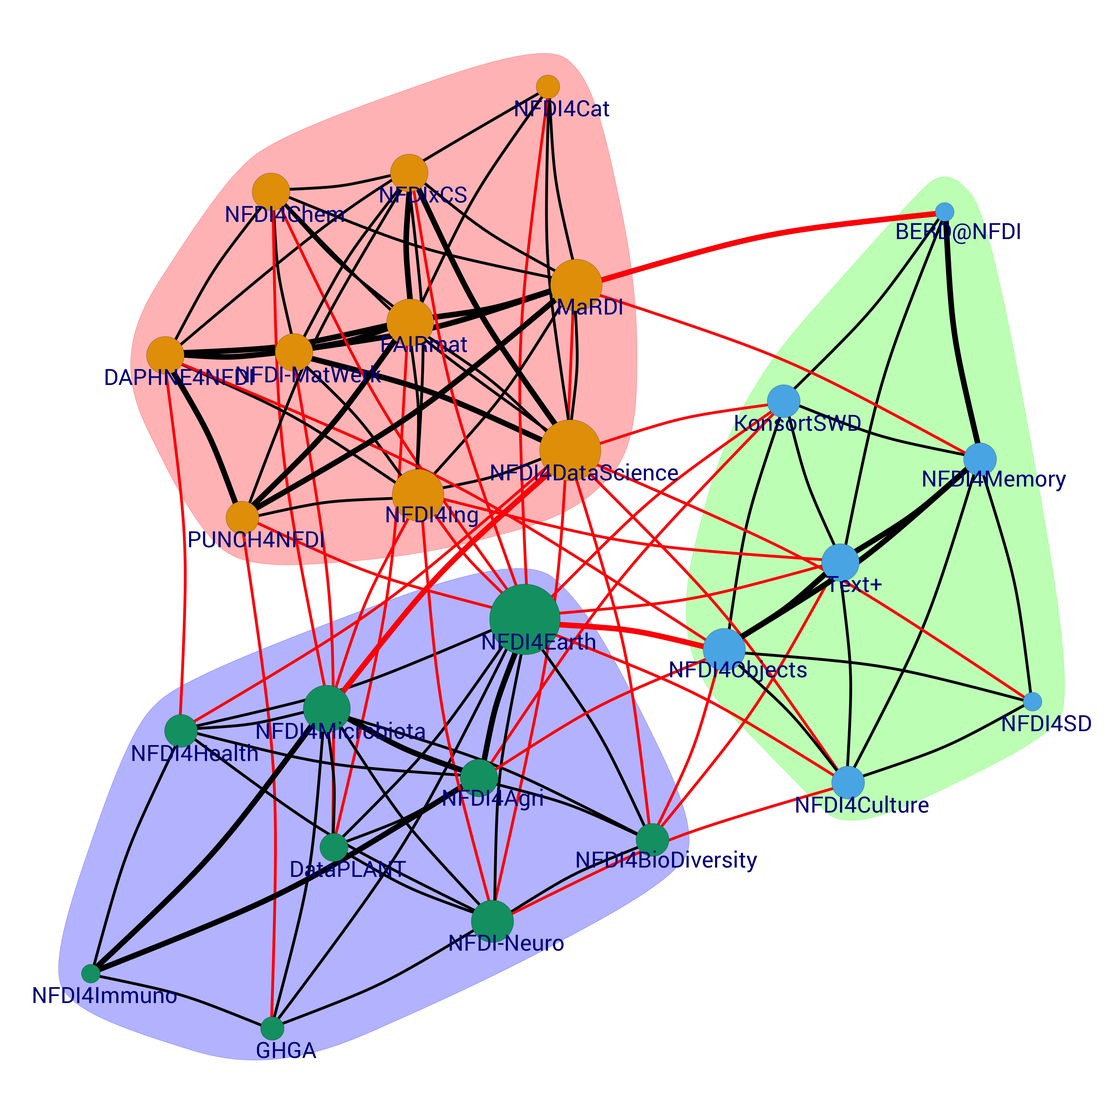
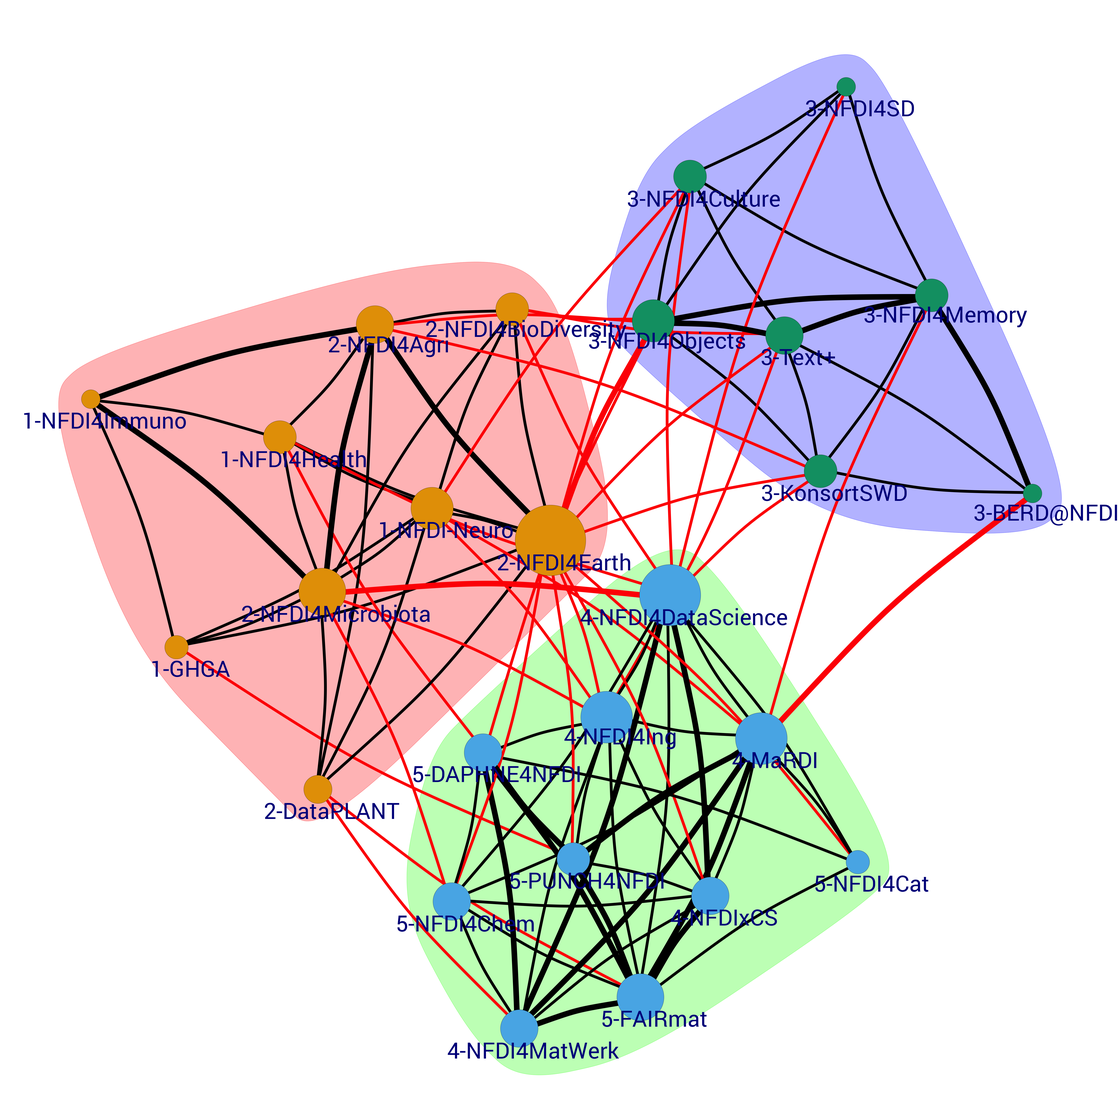
added NFDI-categorization to consortia

diff --git a/2020/2020_nfdi_network_5.html b/2020/2020_nfdi_network_5.html
@@ -1211,11 +1211,11 @@ return function(){for(var n=0,e=0;e<t;++e)n+=Math.random();return n}},um=functio
 </head>
 <body style="background-color: white;">
 <div id="htmlwidget_container">
-<div id="htmlwidget-466d62322b30683bf1b7" class="forceNetwork html-widget" style="width:960px;height:500px;">
+<div id="htmlwidget-ae2abda4cf70fff570f1" class="forceNetwork html-widget" style="width:960px;height:500px;">
 
 </div>
 </div>
-<script type="application/json" data-for="htmlwidget-466d62322b30683bf1b7">{"x":{"links":{"source":[1,1,1,1,1,1,1,1,3,3,3,3,3,3,3,3,3,3,6,6,6,6,6,6,6,9,9,9,9,9,9,9,14,14,14,14,14,14,14,14,14,14,14,15,15,15,15,15,15,15,15,15,15,15,17,17,17,17,19,19,19,19,19,20,20,20,20,20,20,20,20,20,21,21,21,21,21,21,21,22,22,22,22,7,7,7,7,7,7,7,7,8,8,8,8,8,8,8,8,23,23,23,23,23,23,24,24,24,24,24,24,24,25,25,25,25,25,25,25,0,0,0,0,6,19],"target":[3,12,18,7,11,24,16,21,1,6,12,11,18,7,24,2,14,23,7,24,3,18,12,8,11,20,16,10,2,15,5,17,23,6,13,5,16,10,11,12,18,20,7,2,4,5,9,10,11,12,13,16,18,21,20,9,4,16,13,21,25,6,5,2,4,9,10,12,14,16,17,18,25,19,13,5,10,15,9,19,21,13,14,18,23,14,3,12,1,2,6,16,18,2,13,4,20,10,15,18,6,14,3,12,15,3,1,15,6,23,4,18,13,19,21,5,18,15,10,5,19,6,25,0,0],"value":[1,1,1,1,1,1,1,1,1,1,1,1,1,1,1,1,1,1,1,1,1,1,1,1,1,1,1,1,1,1,1,1,1,1,1,1,1,1,1,1,1,1,1,1,1,1,1,1,1,1,1,1,1,1,1,1,1,1,1,1,1,1,1,1,1,1,1,1,1,1,1,1,1,1,1,1,1,1,1,1,1,1,1,1,1,1,1,1,1,1,1,1,1,1,1,1,1,1,1,1,1,1,1,1,1,1,1,1,1,1,1,1,1,1,1,1,1,1,1,1,1,1,1,1,1],"colour":["#808080","#808080","#808080","#808080","#808080","#808080","#808080","#808080","#808080","#808080","#808080","#808080","#808080","#808080","#808080","#808080","#808080","#808080","#808080","#808080","#808080","#808080","#808080","#808080","#808080","#808080","#808080","#808080","#808080","#808080","#808080","#808080","#808080","#808080","#808080","#808080","#808080","#808080","#808080","#808080","#808080","#808080","#808080","#808080","#808080","#808080","#808080","#808080","#808080","#808080","#808080","#808080","#808080","#808080","#808080","#808080","#808080","#808080","#808080","#808080","#808080","#808080","#808080","#808080","#808080","#808080","#808080","#808080","#808080","#808080","#808080","#808080","#808080","#808080","#808080","#808080","#808080","#808080","#808080","#808080","#808080","#808080","#808080","#808080","#808080","#808080","#808080","#808080","#808080","#808080","#808080","#808080","#808080","#808080","#808080","#808080","#808080","#808080","#808080","#808080","#808080","#808080","#808080","#808080","#808080","#808080","#808080","#808080","#808080","#808080","#808080","#808080","#808080","#808080","#808080","#808080","#808080","#808080","#808080","#808080","#808080","#808080","#808080","#808080","#808080"]},"nodes":{"name":["BERD@NFDI","DAPHNE4NFDI","DataPLANT","FAIRmat","GHGA","KonsortSWD","MaRDI","NFDI-MatWerk","NFDI-Neuro","NFDI4Agri","NFDI4BioDiversity","NFDI4Cat","NFDI4Chem","NFDI4Culture","NFDI4DataScience","NFDI4Earth","NFDI4Health","NFDI4Immuno","NFDI4Ing","NFDI4Memory","NFDI4Microbiota","NFDI4Objects","NFDI4SD","NFDIxCS","PUNCH4NFDI","Text+"],"group":[1,1,1,1,1,1,1,1,1,1,1,1,1,1,1,1,1,1,1,1,1,1,1,1,1,1],"nodesize":[8,8,8,8,8,8,8,8,8,8,8,8,8,8,8,8,8,8,8,8,8,8,8,8,8,8]},"options":{"NodeID":"name","Group":"group","colourScale":"d3.scaleOrdinal(['#435FAC'])","fontSize":7,"fontFamily":"Roboto","clickTextSize":17.5,"linkDistance":50,"linkWidth":"'1.5px'.toString()","charge":-300,"opacity":1,"zoom":true,"legend":false,"arrows":false,"nodesize":true,"radiusCalculation":"d.nodesize","bounded":false,"opacityNoHover":1,"clickAction":null}},"evals":[],"jsHooks":[]}</script>
-<script type="application/htmlwidget-sizing" data-for="htmlwidget-466d62322b30683bf1b7">{"viewer":{"width":450,"height":350,"padding":10,"fill":true},"browser":{"width":960,"height":500,"padding":10,"fill":true}}</script>
+<script type="application/json" data-for="htmlwidget-ae2abda4cf70fff570f1">{"x":{"links":{"source":[21,21,21,21,21,21,21,21,22,22,22,22,22,22,22,22,22,22,16,16,16,16,16,16,16,5,5,5,5,5,5,5,17,17,17,17,17,17,17,17,17,17,17,7,7,7,7,7,7,7,7,7,7,7,3,3,3,3,12,12,12,12,12,8,8,8,8,8,8,8,8,8,13,13,13,13,13,13,13,14,14,14,14,19,19,19,19,19,19,19,19,1,1,1,1,1,1,1,1,20,20,20,20,20,20,25,25,25,25,25,25,25,15,15,15,15,15,15,15,9,9,9,9,16,12],"target":[22,24,18,19,23,25,2,13,21,16,24,23,18,19,25,4,17,20,19,25,22,18,24,1,23,8,2,6,4,7,10,3,20,16,11,10,2,6,23,24,18,8,19,4,0,10,5,6,23,24,11,2,18,13,8,5,0,2,11,13,15,16,10,4,0,5,6,24,17,2,3,18,15,12,11,10,6,7,5,12,13,11,17,18,20,17,22,24,21,4,16,2,18,4,11,0,8,6,7,18,16,17,22,24,7,22,21,7,16,20,0,18,11,12,13,10,18,7,6,10,12,16,15,9,9],"value":[1,1,1,1,1,1,1,1,1,1,1,1,1,1,1,1,1,1,1,1,1,1,1,1,1,1,1,1,1,1,1,1,1,1,1,1,1,1,1,1,1,1,1,1,1,1,1,1,1,1,1,1,1,1,1,1,1,1,1,1,1,1,1,1,1,1,1,1,1,1,1,1,1,1,1,1,1,1,1,1,1,1,1,1,1,1,1,1,1,1,1,1,1,1,1,1,1,1,1,1,1,1,1,1,1,1,1,1,1,1,1,1,1,1,1,1,1,1,1,1,1,1,1,1,1],"colour":["#808080","#808080","#808080","#808080","#808080","#808080","#808080","#808080","#808080","#808080","#808080","#808080","#808080","#808080","#808080","#808080","#808080","#808080","#808080","#808080","#808080","#808080","#808080","#808080","#808080","#808080","#808080","#808080","#808080","#808080","#808080","#808080","#808080","#808080","#808080","#808080","#808080","#808080","#808080","#808080","#808080","#808080","#808080","#808080","#808080","#808080","#808080","#808080","#808080","#808080","#808080","#808080","#808080","#808080","#808080","#808080","#808080","#808080","#808080","#808080","#808080","#808080","#808080","#808080","#808080","#808080","#808080","#808080","#808080","#808080","#808080","#808080","#808080","#808080","#808080","#808080","#808080","#808080","#808080","#808080","#808080","#808080","#808080","#808080","#808080","#808080","#808080","#808080","#808080","#808080","#808080","#808080","#808080","#808080","#808080","#808080","#808080","#808080","#808080","#808080","#808080","#808080","#808080","#808080","#808080","#808080","#808080","#808080","#808080","#808080","#808080","#808080","#808080","#808080","#808080","#808080","#808080","#808080","#808080","#808080","#808080","#808080","#808080","#808080","#808080"]},"nodes":{"name":["1-GHGA","1-NFDI-Neuro","1-NFDI4Health","1-NFDI4Immuno","2-DataPLANT","2-NFDI4Agri","2-NFDI4BioDiversity","2-NFDI4Earth","2-NFDI4Microbiota","3-BERD@NFDI","3-KonsortSWD","3-NFDI4Culture","3-NFDI4Memory","3-NFDI4Objects","3-NFDI4SD","3-Text+","4-MaRDI","4-NFDI4DataScience","4-NFDI4Ing","4-NFDI4MatWerk","4-NFDIxCS","5-DAPHNE4NFDI","5-FAIRmat","5-NFDI4Cat","5-NFDI4Chem","5-PUNCH4NFDI"],"group":[1,1,1,1,1,1,1,1,1,1,1,1,1,1,1,1,1,1,1,1,1,1,1,1,1,1],"nodesize":[8,8,8,8,8,8,8,8,8,8,8,8,8,8,8,8,8,8,8,8,8,8,8,8,8,8]},"options":{"NodeID":"name","Group":"group","colourScale":"d3.scaleOrdinal(['#435FAC'])","fontSize":7,"fontFamily":"Roboto","clickTextSize":17.5,"linkDistance":100,"linkWidth":"'1.5px'.toString()","charge":-300,"opacity":1,"zoom":true,"legend":false,"arrows":false,"nodesize":true,"radiusCalculation":"d.nodesize","bounded":false,"opacityNoHover":1,"clickAction":null}},"evals":[],"jsHooks":[]}</script>
+<script type="application/htmlwidget-sizing" data-for="htmlwidget-ae2abda4cf70fff570f1">{"viewer":{"width":450,"height":350,"padding":10,"fill":true},"browser":{"width":960,"height":500,"padding":10,"fill":true}}</script>
 </body>
 </html>

diff --git a/2020/2020_nfdi_network_4.html b/2020/2020_nfdi_network_4.html
@@ -1624,11 +1624,11 @@ pointer-events: none;
 </head>
 <body style="background-color: white;">
 <div id="htmlwidget_container">
-<div id="htmlwidget-1b73e8243cad70c255e2" class="chorddiag html-widget" style="width:960px;height:500px;">
+<div id="htmlwidget-1872be1f50ed0d6e05f7" class="chorddiag html-widget" style="width:960px;height:500px;">
 
 </div>
 </div>
-<script type="application/json" data-for="htmlwidget-1b73e8243cad70c255e2">{"x":{"matrix":[[0,2,0,0,0,0,0,0,0,1,0,2,0,0,2,0,0,1,1,1,1,0,0,0,0,0],[2,0,2,0,1,0,0,0,0,0,0,2,0,2,2,0,0,1,1,1,0,1,0,0,0,0],[0,2,0,0,1,0,0,1,0,0,0,2,1,1,2,0,2,1,1,1,0,0,0,0,0,0],[0,0,0,0,0,2,2,0,2,1,0,0,0,0,0,0,0,0,0,0,1,1,1,1,0,0],[0,1,1,0,0,0,0,0,2,0,1,2,0,2,0,0,0,1,1,1,1,0,1,1,1,0],[0,0,0,2,0,0,0,0,0,2,0,0,1,1,1,1,0,1,1,1,1,1,1,1,1,1],[0,0,0,2,0,0,0,0,2,0,0,0,0,0,0,0,0,0,0,0,1,0,0,0,0,1],[0,0,1,0,0,0,0,0,0,2,1,0,0,0,0,2,2,0,0,0,0,0,0,1,1,0],[0,0,0,2,2,0,2,0,0,0,0,0,1,0,0,0,0,1,1,0,1,1,1,0,0,1],[1,0,0,1,0,2,0,2,0,0,1,0,0,0,0,2,0,0,0,0,0,0,1,1,1,0],[0,0,0,0,1,0,0,1,0,1,0,0,0,0,0,0,0,0,0,0,0,0,0,0,1,0],[2,2,2,0,2,0,0,0,0,0,0,0,0,1,0,0,0,1,1,0,0,1,0,0,0,0],[0,0,1,0,0,1,0,0,1,0,0,0,0,0,0,0,0,0,1,0,1,1,1,0,1,1],[0,2,1,0,2,1,0,0,0,0,0,1,0,0,1,0,0,1,1,0,0,0,0,0,0,0],[2,2,2,0,0,1,0,0,0,0,0,0,0,1,0,0,0,0,1,0,0,0,0,0,0,1],[0,0,0,0,0,1,0,2,0,2,0,0,0,0,0,0,1,0,1,0,0,0,1,1,1,0],[0,0,2,0,0,0,0,2,0,0,0,0,0,0,0,1,0,0,0,0,0,0,0,1,0,0],[1,1,1,0,1,1,0,0,1,0,0,1,0,1,0,0,0,0,0,0,0,0,0,0,0,0],[1,1,1,0,1,1,0,0,1,0,0,1,1,1,1,1,0,0,0,0,0,0,0,0,0,0],[1,1,1,0,1,1,0,0,0,0,0,0,0,0,0,0,0,0,0,0,0,0,0,0,0,0],[1,0,0,1,1,1,1,0,1,0,0,0,1,0,0,0,0,0,0,0,0,0,0,0,0,0],[0,1,0,1,0,1,0,0,1,0,0,1,1,0,0,0,0,0,0,0,0,0,0,0,0,0],[0,0,0,1,1,1,0,0,1,1,0,0,1,0,0,1,0,0,0,0,0,0,0,0,0,0],[0,0,0,1,1,1,0,1,0,1,0,0,0,0,0,1,1,0,0,0,0,0,0,0,0,0],[0,0,0,0,1,1,0,1,0,1,1,0,1,0,0,1,0,0,0,0,0,0,0,0,0,0],[0,0,0,0,0,1,1,0,1,0,0,0,1,0,1,0,0,0,0,0,0,0,0,0,0,0]],"options":{"type":"directional","width":null,"height":null,"margin":120,"showGroupnames":true,"groupNames":["DAPHNE4NFDI","FAIRmat","MaRDI","NFDI4Agri","NFDI4DataScience","NFDI4Earth","NFDI4Immuno","NFDI4Memory","NFDI4Microbiota","NFDI4Objects","NFDI4SD","NFDI-MatWerk","NFDI-Neuro","NFDIxCS","PUNCH4NFDI","Text+","BERD@NFDI","NFDI4Chem","NFDI4Ing","NFDI4Cat","NFDI4Health","DataPLANT","NFDI4BioDiversity","KonsortSWD","NFDI4Culture","GHGA"],"groupColors":["#435FAC","#AEC3FD"],"groupThickness":0.1,"groupPadding":0.0174532925199433,"groupnamePadding":[20,20,20,20,20,20,20,20,20,20,20,20,20,20,20,20,20,20,20,20,20,20,20,20,20,20],"groupnameFontsize":18,"groupedgeColor":null,"chordedgeColor":"#808080","categoryNames":null,"categorynamePadding":100,"categorynameFontsize":18,"showTicks":false,"tickInterval":1,"ticklabelFontsize":10,"fadeLevel":0.1,"showTooltips":true,"showZeroTooltips":true,"tooltipNames":["DAPHNE4NFDI","FAIRmat","MaRDI","NFDI4Agri","NFDI4DataScience","NFDI4Earth","NFDI4Immuno","NFDI4Memory","NFDI4Microbiota","NFDI4Objects","NFDI4SD","NFDI-MatWerk","NFDI-Neuro","NFDIxCS","PUNCH4NFDI","Text+","BERD@NFDI","NFDI4Chem","NFDI4Ing","NFDI4Cat","NFDI4Health","DataPLANT","NFDI4BioDiversity","KonsortSWD","NFDI4Culture","GHGA"],"tooltipFontsize":20,"tooltipUnit":"","tooltipGroupConnector":" <> ","precision":2,"clickAction":null,"clickGroupAction":null}},"evals":[],"jsHooks":[]}</script>
-<script type="application/htmlwidget-sizing" data-for="htmlwidget-1b73e8243cad70c255e2">{"viewer":{"width":450,"height":350,"padding":0,"fill":true},"browser":{"width":960,"height":500,"padding":0,"fill":true}}</script>
+<script type="application/json" data-for="htmlwidget-1872be1f50ed0d6e05f7">{"x":{"matrix":[[0,2,0,0,0,0,0,0,0,1,0,2,0,0,2,0,0,1,1,1,1,0,0,0,0,0],[2,0,2,0,1,0,0,0,0,0,0,2,0,2,2,0,0,1,1,1,0,1,0,0,0,0],[0,2,0,0,1,0,0,1,0,0,0,2,1,1,2,0,2,1,1,1,0,0,0,0,0,0],[0,0,0,0,0,2,2,0,2,1,0,0,0,0,0,0,0,0,0,0,1,1,1,1,0,0],[0,1,1,0,0,0,0,0,2,0,1,2,0,2,0,0,0,1,1,1,1,0,1,1,1,0],[0,0,0,2,0,0,0,0,0,2,0,0,1,1,1,1,0,1,1,1,1,1,1,1,1,1],[0,0,0,2,0,0,0,0,2,0,0,0,0,0,0,0,0,0,0,0,1,0,0,0,0,1],[0,0,1,0,0,0,0,0,0,2,1,0,0,0,0,2,2,0,0,0,0,0,0,1,1,0],[0,0,0,2,2,0,2,0,0,0,0,0,1,0,0,0,0,1,1,0,1,1,1,0,0,1],[1,0,0,1,0,2,0,2,0,0,1,0,0,0,0,2,0,0,0,0,0,0,1,1,1,0],[0,0,0,0,1,0,0,1,0,1,0,0,0,0,0,0,0,0,0,0,0,0,0,0,1,0],[2,2,2,0,2,0,0,0,0,0,0,0,0,1,0,0,0,1,1,0,0,1,0,0,0,0],[0,0,1,0,0,1,0,0,1,0,0,0,0,0,0,0,0,0,1,0,1,1,1,0,1,1],[0,2,1,0,2,1,0,0,0,0,0,1,0,0,1,0,0,1,1,0,0,0,0,0,0,0],[2,2,2,0,0,1,0,0,0,0,0,0,0,1,0,0,0,0,1,0,0,0,0,0,0,1],[0,0,0,0,0,1,0,2,0,2,0,0,0,0,0,0,1,0,1,0,0,0,1,1,1,0],[0,0,2,0,0,0,0,2,0,0,0,0,0,0,0,1,0,0,0,0,0,0,0,1,0,0],[1,1,1,0,1,1,0,0,1,0,0,1,0,1,0,0,0,0,0,0,0,0,0,0,0,0],[1,1,1,0,1,1,0,0,1,0,0,1,1,1,1,1,0,0,0,0,0,0,0,0,0,0],[1,1,1,0,1,1,0,0,0,0,0,0,0,0,0,0,0,0,0,0,0,0,0,0,0,0],[1,0,0,1,1,1,1,0,1,0,0,0,1,0,0,0,0,0,0,0,0,0,0,0,0,0],[0,1,0,1,0,1,0,0,1,0,0,1,1,0,0,0,0,0,0,0,0,0,0,0,0,0],[0,0,0,1,1,1,0,0,1,1,0,0,1,0,0,1,0,0,0,0,0,0,0,0,0,0],[0,0,0,1,1,1,0,1,0,1,0,0,0,0,0,1,1,0,0,0,0,0,0,0,0,0],[0,0,0,0,1,1,0,1,0,1,1,0,1,0,0,1,0,0,0,0,0,0,0,0,0,0],[0,0,0,0,0,1,1,0,1,0,0,0,1,0,1,0,0,0,0,0,0,0,0,0,0,0]],"options":{"type":"directional","width":null,"height":null,"margin":120,"showGroupnames":true,"groupNames":["5-DAPHNE4NFDI","5-FAIRmat","4-MaRDI","2-NFDI4Agri","4-NFDI4DataScience","2-NFDI4Earth","1-NFDI4Immuno","3-NFDI4Memory","2-NFDI4Microbiota","3-NFDI4Objects","3-NFDI4SD","4-NFDI4MatWerk","1-NFDI-Neuro","4-NFDIxCS","5-PUNCH4NFDI","3-Text+","3-BERD@NFDI","5-NFDI4Chem","4-NFDI4Ing","5-NFDI4Cat","1-NFDI4Health","2-DataPLANT","2-NFDI4BioDiversity","3-KonsortSWD","3-NFDI4Culture","1-GHGA"],"groupColors":["#435FAC","#AEC3FD"],"groupThickness":0.1,"groupPadding":0.0174532925199433,"groupnamePadding":[20,20,20,20,20,20,20,20,20,20,20,20,20,20,20,20,20,20,20,20,20,20,20,20,20,20],"groupnameFontsize":18,"groupedgeColor":null,"chordedgeColor":"#808080","categoryNames":null,"categorynamePadding":100,"categorynameFontsize":18,"showTicks":false,"tickInterval":1,"ticklabelFontsize":10,"fadeLevel":0.1,"showTooltips":true,"showZeroTooltips":true,"tooltipNames":["5-DAPHNE4NFDI","5-FAIRmat","4-MaRDI","2-NFDI4Agri","4-NFDI4DataScience","2-NFDI4Earth","1-NFDI4Immuno","3-NFDI4Memory","2-NFDI4Microbiota","3-NFDI4Objects","3-NFDI4SD","4-NFDI4MatWerk","1-NFDI-Neuro","4-NFDIxCS","5-PUNCH4NFDI","3-Text+","3-BERD@NFDI","5-NFDI4Chem","4-NFDI4Ing","5-NFDI4Cat","1-NFDI4Health","2-DataPLANT","2-NFDI4BioDiversity","3-KonsortSWD","3-NFDI4Culture","1-GHGA"],"tooltipFontsize":20,"tooltipUnit":"","tooltipGroupConnector":" <> ","precision":2,"clickAction":null,"clickGroupAction":null}},"evals":[],"jsHooks":[]}</script>
+<script type="application/htmlwidget-sizing" data-for="htmlwidget-1872be1f50ed0d6e05f7">{"viewer":{"width":450,"height":350,"padding":0,"fill":true},"browser":{"width":960,"height":500,"padding":0,"fill":true}}</script>
 </body>
 </html>

diff --git a/2019/2019_nfdi_network_5.html b/2019/2019_nfdi_network_5.html
@@ -1211,11 +1211,11 @@ return function(){for(var n=0,e=0;e<t;++e)n+=Math.random();return n}},um=functio
 </head>
 <body style="background-color: white;">
 <div id="htmlwidget_container">
-<div id="htmlwidget-e05259a22a001c4d9545" class="forceNetwork html-widget" style="width:960px;height:500px;">
+<div id="htmlwidget-2a2929f760fab89c1872" class="forceNetwork html-widget" style="width:960px;height:500px;">
 
 </div>
 </div>
-<script type="application/json" data-for="htmlwidget-e05259a22a001c4d9545">{"x":{"links":{"source":[0,0,0,1,1,1,2,2,2,2,2,2,2,3,3,3,4,4,4,4,4,4,5,5,5,5,5,6,6,7,7,7,7,7,8,8,8,8,8,8,9,9,9,9,9,10,10,10,10,10,10,10,10,11,11,11,11,12,12,12,12,12,12,12,13,13,13,14,14,14,15,15,15,15,15,16,16,16,16,16,16,16,17,17,17,17,17,17,17,17,17,18,18,18,18,18,18,18,19,19,19,20,20,20,20,20,22,22,22,22,22],"target":[21,2,15,7,5,22,4,12,17,20,11,21,0,10,9,12,2,8,12,11,17,20,18,7,1,14,22,18,16,1,10,15,16,22,20,21,4,17,12,14,16,3,10,7,15,15,9,12,16,7,13,3,18,4,12,17,2,4,17,11,2,21,16,10,10,18,22,22,8,17,0,7,9,10,17,18,6,7,12,9,15,10,20,4,19,12,15,8,18,22,14,6,16,17,13,5,7,9,17,5,15,4,17,8,12,2,14,7,17,15,10],"value":[1,1,1,1,1,1,1,1,1,1,1,1,1,1,1,1,1,1,1,1,1,1,1,1,1,1,1,1,1,1,1,1,1,1,1,1,1,1,1,1,1,1,1,1,1,1,1,1,1,1,1,1,1,1,1,1,1,1,1,1,1,1,1,1,1,1,1,1,1,1,1,1,1,1,1,1,1,1,1,1,1,1,1,1,1,1,1,1,1,1,1,1,1,1,1,1,1,1,1,1,1,1,1,1,1,1,1,1,1,1,1],"colour":["#808080","#808080","#808080","#808080","#808080","#808080","#808080","#808080","#808080","#808080","#808080","#808080","#808080","#808080","#808080","#808080","#808080","#808080","#808080","#808080","#808080","#808080","#808080","#808080","#808080","#808080","#808080","#808080","#808080","#808080","#808080","#808080","#808080","#808080","#808080","#808080","#808080","#808080","#808080","#808080","#808080","#808080","#808080","#808080","#808080","#808080","#808080","#808080","#808080","#808080","#808080","#808080","#808080","#808080","#808080","#808080","#808080","#808080","#808080","#808080","#808080","#808080","#808080","#808080","#808080","#808080","#808080","#808080","#808080","#808080","#808080","#808080","#808080","#808080","#808080","#808080","#808080","#808080","#808080","#808080","#808080","#808080","#808080","#808080","#808080","#808080","#808080","#808080","#808080","#808080","#808080","#808080","#808080","#808080","#808080","#808080","#808080","#808080","#808080","#808080","#808080","#808080","#808080","#808080","#808080","#808080","#808080","#808080","#808080","#808080","#808080"]},"nodes":{"name":["Astro-NFDI","BERD@NFDI","DAPHNE","DataPLANT","FAIRmat","ForumX","GHGA","KonsortSWD","MaRDI","NFDI4Agri","NFDI4BioDiversity","NFDI4cat","NFDI4Chem","NFDI4Crime","NFDI4Culture","NFDI4Earth","NFDI4Health","NFDI4Ing","NFDI4Medicine","NFDI4MobilTech","NFDI4MSE","PAHN-PaN","Text+"],"group":[1,1,1,1,1,1,1,1,1,1,1,1,1,1,1,1,1,1,1,1,1,1,1],"nodesize":[8,8,8,8,8,8,8,8,8,8,8,8,8,8,8,8,8,8,8,8,8,8,8]},"options":{"NodeID":"name","Group":"group","colourScale":"d3.scaleOrdinal(['#435FAC'])","fontSize":7,"fontFamily":"Roboto","clickTextSize":17.5,"linkDistance":50,"linkWidth":"'1.5px'.toString()","charge":-300,"opacity":1,"zoom":true,"legend":false,"arrows":false,"nodesize":true,"radiusCalculation":"d.nodesize","bounded":false,"opacityNoHover":1,"clickAction":null}},"evals":[],"jsHooks":[]}</script>
-<script type="application/htmlwidget-sizing" data-for="htmlwidget-e05259a22a001c4d9545">{"viewer":{"width":450,"height":350,"padding":10,"fill":true},"browser":{"width":960,"height":500,"padding":10,"fill":true}}</script>
+<script type="application/json" data-for="htmlwidget-2a2929f760fab89c1872">{"x":{"links":{"source":[0,0,0,1,1,1,2,2,2,2,2,2,2,3,3,3,4,4,4,4,4,4,5,5,5,5,5,6,6,7,7,7,7,7,8,8,8,8,8,8,9,9,9,9,9,10,10,10,10,10,10,10,10,11,11,11,11,12,12,12,12,12,12,12,13,13,13,14,14,14,15,15,15,15,15,16,16,16,16,16,16,16,17,17,17,17,17,17,17,17,17,18,18,18,18,18,18,18,19,19,19,20,20,20,20,20,22,22,22,22,22],"target":[21,2,15,7,5,22,4,12,17,20,11,21,0,10,9,12,2,8,12,11,17,20,18,7,1,14,22,18,16,1,10,15,16,22,20,21,4,17,12,14,16,3,10,7,15,15,9,12,16,7,13,3,18,4,12,17,2,4,17,11,2,21,16,10,10,18,22,22,8,17,0,7,9,10,17,18,6,7,12,9,15,10,20,4,19,12,15,8,18,22,14,6,16,17,13,5,7,9,17,5,15,4,17,8,12,2,14,7,17,15,10],"value":[1,1,1,1,1,1,1,1,1,1,1,1,1,1,1,1,1,1,1,1,1,1,1,1,1,1,1,1,1,1,1,1,1,1,1,1,1,1,1,1,1,1,1,1,1,1,1,1,1,1,1,1,1,1,1,1,1,1,1,1,1,1,1,1,1,1,1,1,1,1,1,1,1,1,1,1,1,1,1,1,1,1,1,1,1,1,1,1,1,1,1,1,1,1,1,1,1,1,1,1,1,1,1,1,1,1,1,1,1,1,1],"colour":["#808080","#808080","#808080","#808080","#808080","#808080","#808080","#808080","#808080","#808080","#808080","#808080","#808080","#808080","#808080","#808080","#808080","#808080","#808080","#808080","#808080","#808080","#808080","#808080","#808080","#808080","#808080","#808080","#808080","#808080","#808080","#808080","#808080","#808080","#808080","#808080","#808080","#808080","#808080","#808080","#808080","#808080","#808080","#808080","#808080","#808080","#808080","#808080","#808080","#808080","#808080","#808080","#808080","#808080","#808080","#808080","#808080","#808080","#808080","#808080","#808080","#808080","#808080","#808080","#808080","#808080","#808080","#808080","#808080","#808080","#808080","#808080","#808080","#808080","#808080","#808080","#808080","#808080","#808080","#808080","#808080","#808080","#808080","#808080","#808080","#808080","#808080","#808080","#808080","#808080","#808080","#808080","#808080","#808080","#808080","#808080","#808080","#808080","#808080","#808080","#808080","#808080","#808080","#808080","#808080","#808080","#808080","#808080","#808080","#808080","#808080"]},"nodes":{"name":["Astro-NFDI","BERD@NFDI","DAPHNE","DataPLANT","FAIRmat","ForumX","GHGA","KonsortSWD","MaRDI","NFDI4Agri","NFDI4BioDiversity","NFDI4cat","NFDI4Chem","NFDI4Crime","NFDI4Culture","NFDI4Earth","NFDI4Health","NFDI4Ing","NFDI4Medicine","NFDI4MobilTech","NFDI4MSE","PAHN-PaN","Text+"],"group":[1,1,1,1,1,1,1,1,1,1,1,1,1,1,1,1,1,1,1,1,1,1,1],"nodesize":[8,8,8,8,8,8,8,8,8,8,8,8,8,8,8,8,8,8,8,8,8,8,8]},"options":{"NodeID":"name","Group":"group","colourScale":"d3.scaleOrdinal(['#435FAC'])","fontSize":7,"fontFamily":"Roboto","clickTextSize":17.5,"linkDistance":100,"linkWidth":"'1.5px'.toString()","charge":-300,"opacity":1,"zoom":true,"legend":false,"arrows":false,"nodesize":true,"radiusCalculation":"d.nodesize","bounded":false,"opacityNoHover":1,"clickAction":null}},"evals":[],"jsHooks":[]}</script>
+<script type="application/htmlwidget-sizing" data-for="htmlwidget-2a2929f760fab89c1872">{"viewer":{"width":450,"height":350,"padding":10,"fill":true},"browser":{"width":960,"height":500,"padding":10,"fill":true}}</script>
 </body>
 </html>

diff --git a/2019/2019_nfdi_network_4.html b/2019/2019_nfdi_network_4.html
@@ -1624,11 +1624,11 @@ pointer-events: none;
 </head>
 <body style="background-color: white;">
 <div id="htmlwidget_container">
-<div id="htmlwidget-2ff4cbfe2617b4dbd527" class="chorddiag html-widget" style="width:960px;height:500px;">
+<div id="htmlwidget-b6a5008ccd84c8368fd9" class="chorddiag html-widget" style="width:960px;height:500px;">
 
 </div>
 </div>
-<script type="application/json" data-for="htmlwidget-2ff4cbfe2617b4dbd527">{"x":{"matrix":[[0,0,2,0,0,0,0,0,0,0,0,0,0,0,0,2,0,0,0,0,0,0,1],[0,0,0,0,0,2,0,2,0,0,0,0,0,0,0,0,0,0,0,0,0,1,0],[2,0,0,0,2,0,0,0,0,0,0,2,2,0,0,0,0,1,0,0,2,0,1],[0,0,0,0,0,0,0,0,0,2,2,0,1,0,0,0,0,0,0,0,0,0,0],[0,0,2,0,0,0,0,0,2,0,0,2,2,0,0,0,0,2,0,0,2,0,0],[0,2,0,0,0,0,0,1,0,0,0,0,0,0,1,0,0,0,2,1,0,1,0],[0,0,0,0,0,0,0,0,0,0,0,0,0,0,0,0,2,0,2,0,0,0,0],[0,2,0,0,0,1,0,0,0,1,2,0,0,0,0,2,2,0,1,0,0,2,0],[0,0,0,0,2,0,0,0,0,0,0,0,1,0,2,0,0,2,0,0,2,0,1],[0,0,0,2,0,0,0,1,0,0,2,0,0,0,0,2,2,0,1,0,0,0,0],[0,0,0,2,0,0,0,2,0,2,0,0,2,2,0,2,2,0,1,0,0,1,0],[0,0,2,0,2,0,0,0,0,0,0,0,2,0,0,0,0,1,0,0,0,0,0],[0,0,2,1,2,0,0,0,1,0,2,2,0,0,0,0,2,2,0,0,1,0,1],[0,0,0,0,0,0,0,0,0,0,2,0,0,0,0,0,0,0,2,0,0,1,0],[0,0,0,0,0,1,0,0,2,0,0,0,0,0,0,0,0,2,0,0,0,2,0],[2,0,0,0,0,0,0,2,0,2,2,0,0,0,0,0,1,2,0,1,0,1,0],[0,0,0,0,0,0,2,2,0,2,2,0,2,0,0,1,0,0,2,0,0,0,0],[0,0,1,0,2,0,0,0,2,0,0,1,2,0,2,2,0,0,2,2,2,2,0],[0,0,0,0,0,2,2,1,0,1,1,0,0,2,0,0,2,2,0,0,0,0,0],[0,0,0,0,0,1,0,0,0,0,0,0,0,0,0,1,0,2,0,0,0,0,0],[0,0,2,0,2,0,0,0,2,0,0,0,1,0,0,0,0,2,0,0,0,0,0],[0,1,0,0,0,1,0,2,0,0,1,0,0,1,2,1,0,2,0,0,0,0,0],[1,0,1,0,0,0,0,0,1,0,0,0,1,0,0,0,0,0,0,0,0,0,0]],"options":{"type":"directional","width":null,"height":null,"margin":120,"showGroupnames":true,"groupNames":["Astro-NFDI","BERD@NFDI","DAPHNE","DataPLANT","FAIRmat","ForumX","GHGA","KonsortSWD","MaRDI","NFDI4Agri","NFDI4BioDiversity","NFDI4cat","NFDI4Chem","NFDI4Crime","NFDI4Culture","NFDI4Earth","NFDI4Health","NFDI4Ing","NFDI4Medicine","NFDI4MobilTech","NFDI4MSE","Text+","PAHN-PaN"],"groupColors":["#435FAC","#AEC3FD"],"groupThickness":0.1,"groupPadding":0.0174532925199433,"groupnamePadding":[20,20,20,20,20,20,20,20,20,20,20,20,20,20,20,20,20,20,20,20,20,20,20],"groupnameFontsize":18,"groupedgeColor":null,"chordedgeColor":"#808080","categoryNames":null,"categorynamePadding":100,"categorynameFontsize":18,"showTicks":false,"tickInterval":1,"ticklabelFontsize":10,"fadeLevel":0.1,"showTooltips":true,"showZeroTooltips":true,"tooltipNames":["Astro-NFDI","BERD@NFDI","DAPHNE","DataPLANT","FAIRmat","ForumX","GHGA","KonsortSWD","MaRDI","NFDI4Agri","NFDI4BioDiversity","NFDI4cat","NFDI4Chem","NFDI4Crime","NFDI4Culture","NFDI4Earth","NFDI4Health","NFDI4Ing","NFDI4Medicine","NFDI4MobilTech","NFDI4MSE","Text+","PAHN-PaN"],"tooltipFontsize":20,"tooltipUnit":"","tooltipGroupConnector":" <> ","precision":2,"clickAction":null,"clickGroupAction":null}},"evals":[],"jsHooks":[]}</script>
-<script type="application/htmlwidget-sizing" data-for="htmlwidget-2ff4cbfe2617b4dbd527">{"viewer":{"width":450,"height":350,"padding":0,"fill":true},"browser":{"width":960,"height":500,"padding":0,"fill":true}}</script>
+<script type="application/json" data-for="htmlwidget-b6a5008ccd84c8368fd9">{"x":{"matrix":[[0,0,2,0,0,0,0,0,0,0,0,0,0,0,0,2,0,0,0,0,0,0,1],[0,0,0,0,0,2,0,2,0,0,0,0,0,0,0,0,0,0,0,0,0,1,0],[2,0,0,0,2,0,0,0,0,0,0,2,2,0,0,0,0,1,0,0,2,0,1],[0,0,0,0,0,0,0,0,0,2,2,0,1,0,0,0,0,0,0,0,0,0,0],[0,0,2,0,0,0,0,0,2,0,0,2,2,0,0,0,0,2,0,0,2,0,0],[0,2,0,0,0,0,0,1,0,0,0,0,0,0,1,0,0,0,2,1,0,1,0],[0,0,0,0,0,0,0,0,0,0,0,0,0,0,0,0,2,0,2,0,0,0,0],[0,2,0,0,0,1,0,0,0,1,2,0,0,0,0,2,2,0,1,0,0,2,0],[0,0,0,0,2,0,0,0,0,0,0,0,1,0,2,0,0,2,0,0,2,0,1],[0,0,0,2,0,0,0,1,0,0,2,0,0,0,0,2,2,0,1,0,0,0,0],[0,0,0,2,0,0,0,2,0,2,0,0,2,2,0,2,2,0,1,0,0,1,0],[0,0,2,0,2,0,0,0,0,0,0,0,2,0,0,0,0,1,0,0,0,0,0],[0,0,2,1,2,0,0,0,1,0,2,2,0,0,0,0,2,2,0,0,1,0,1],[0,0,0,0,0,0,0,0,0,0,2,0,0,0,0,0,0,0,2,0,0,1,0],[0,0,0,0,0,1,0,0,2,0,0,0,0,0,0,0,0,2,0,0,0,2,0],[2,0,0,0,0,0,0,2,0,2,2,0,0,0,0,0,1,2,0,1,0,1,0],[0,0,0,0,0,0,2,2,0,2,2,0,2,0,0,1,0,0,2,0,0,0,0],[0,0,1,0,2,0,0,0,2,0,0,1,2,0,2,2,0,0,2,2,2,2,0],[0,0,0,0,0,2,2,1,0,1,1,0,0,2,0,0,2,2,0,0,0,0,0],[0,0,0,0,0,1,0,0,0,0,0,0,0,0,0,1,0,2,0,0,0,0,0],[0,0,2,0,2,0,0,0,2,0,0,0,1,0,0,0,0,2,0,0,0,0,0],[0,1,0,0,0,1,0,2,0,0,1,0,0,1,2,1,0,2,0,0,0,0,0],[1,0,1,0,0,0,0,0,1,0,0,0,1,0,0,0,0,0,0,0,0,0,0]],"options":{"type":"directional","width":null,"height":null,"margin":120,"showGroupnames":true,"groupNames":["Astro-NFDI","BERD@NFDI","DAPHNE","DataPLANT","FAIRmat","ForumX","GHGA","KonsortSWD","MaRDI","NFDI4Agri","NFDI4BioDiversity","NFDI4cat","NFDI4Chem","NFDI4Crime","NFDI4Culture","NFDI4Earth","NFDI4Health","NFDI4Ing","NFDI4Medicine","NFDI4MobilTech","NFDI4MSE","Text+","PAHN-PaN"],"groupColors":["#435FAC","#AEC3FD"],"groupThickness":0.1,"groupPadding":0.0174532925199433,"groupnamePadding":[20,20,20,20,20,20,20,20,20,20,20,20,20,20,20,20,20,20,20,20,20,20,20],"groupnameFontsize":18,"groupedgeColor":null,"chordedgeColor":"#808080","categoryNames":null,"categorynamePadding":100,"categorynameFontsize":18,"showTicks":false,"tickInterval":1,"ticklabelFontsize":10,"fadeLevel":0.1,"showTooltips":true,"showZeroTooltips":true,"tooltipNames":["Astro-NFDI","BERD@NFDI","DAPHNE","DataPLANT","FAIRmat","ForumX","GHGA","KonsortSWD","MaRDI","NFDI4Agri","NFDI4BioDiversity","NFDI4cat","NFDI4Chem","NFDI4Crime","NFDI4Culture","NFDI4Earth","NFDI4Health","NFDI4Ing","NFDI4Medicine","NFDI4MobilTech","NFDI4MSE","Text+","PAHN-PaN"],"tooltipFontsize":20,"tooltipUnit":"","tooltipGroupConnector":" <> ","precision":2,"clickAction":null,"clickGroupAction":null}},"evals":[],"jsHooks":[]}</script>
+<script type="application/htmlwidget-sizing" data-for="htmlwidget-b6a5008ccd84c8368fd9">{"viewer":{"width":450,"height":350,"padding":0,"fill":true},"browser":{"width":960,"height":500,"padding":0,"fill":true}}</script>
 </body>
 </html>
